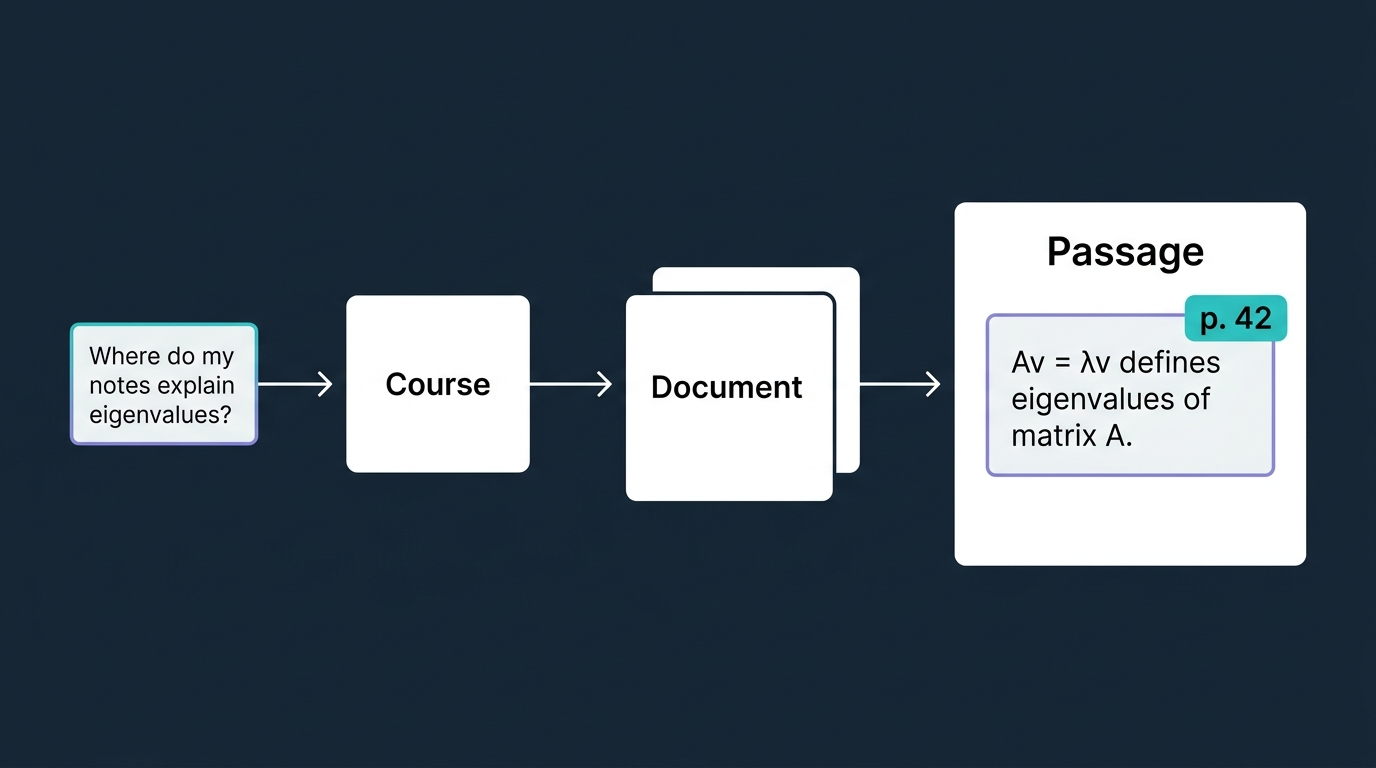
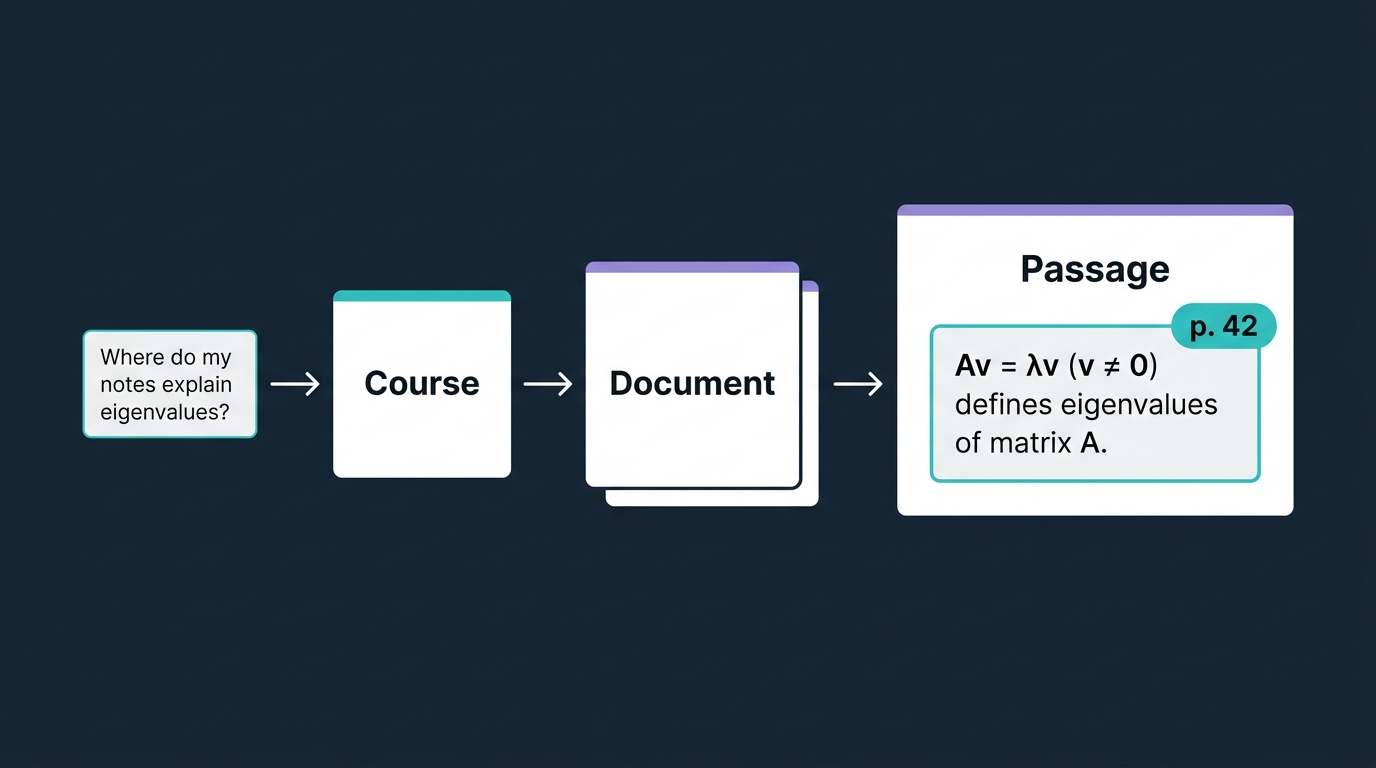
feat(academic-hub): integrate approved Batch 3 featured images and pilot correction

Changed region(s): [[0.2188, 0.25, 0.9688, 0.75], [0.0312, 0.4062, 0.1875, 0.5938]]

diff --git a/docs/editorial/gemini-image-generation-report.md b/docs/editorial/gemini-image-generation-report.md
@@ -629,6 +629,41 @@ Targeted corrections requested by the owner for four Batch 3 candidates. All pre
 
 ---
 
+## Batch 3 Production Build and Visual Verification (Desktop & Mobile 390px)
+
+Full production build and responsive visual checks were performed and recorded for all six integrated pages (Source Indexer candidate 02, Project Steering candidate 02, Marker Conversion candidate 01, Notes Post-Processing candidate 02, RAG Analysis candidate 02, and Problem Generation candidate 02).
+
+### 1. Production Build Output
+- **Command:** `hugo --minify`
+- **Hugo Version:** v0.163.3 extended windows/amd64
+- **Build Duration:** 18,675 ms
+- **Statistics:**
+  - Pages: 119
+  - Paginator pages: 4
+  - Non-page files: 38
+  - Processed images: 619 (new responsive WebP variants generated across all viewports)
+  - Errors: 0
+  - Warnings: 0
+
+### 2. Article View Verification (Desktop & Mobile 390px)
+
+| Page | Responsive Srcset Generated | Sizes Attribute | Rendered Caption | Rendered Article Alt Text | 390px Mobile & Desktop Legibility | Intended Claim Communicated |
+|---|---|---|---|---|---|---|
+| **Source Indexer** | 320w, 480w, 640w, 720w (WebP) | `(max-width: 480px) 100vw, (max-width: 640px) 90vw, (max-width: 720px) 80vw, 720px` | `<span class=article-header-caption>Illustration: find the document, then the passage worth reading.</span>` | `alt="An illustrative question narrows from course records to documents and a source-referenced passage."` | Nonzero eigenvector condition $\mathbf{Av} = \lambda \mathbf{v} \; (\mathbf{v} \neq 0)$ and page 42 badge remain crisp and sharp at 390px mobile width. | Search narrowing from course to document to verified referenced passage. |
+| **Project Steering** | 320w, 480w, 640w, 720w (WebP) | `(max-width: 480px) 100vw, (max-width: 640px) 90vw, (max-width: 720px) 80vw, 720px` | `<span class=article-header-caption>Illustration: a shortlist built from decisions I have reviewed.</span>` | `alt="Task suggestions pass through owner review; changed tasks and missing estimates stay out of the ready shortlist."` | Proposed task list, missing estimate hold-back, and 3-item ready shortlist scale down cleanly with balanced spacing. | Owner review gate; unestimated tasks held back; changed tasks return to review. |
+| **Marker Conversion** | 320w, 480w, 640w, 720w (WebP) | `(max-width: 480px) 100vw, (max-width: 640px) 90vw, (max-width: 720px) 80vw, 720px` | `<span class=article-header-caption>Illustration: preserve the structure needed to find and check a passage.</span>` | `alt="A textbook chapter, equation, and figure become searchable text with both PDF and printed-page references."` | Dual PDF and printed page tracking badges and figure description card remain clearly legible at 390px. | Structural conversion preserving book references and geometric figure descriptions. |
+| **Notes Post-Processing** | 320w, 480w, 640w, 720w (WebP) | `(max-width: 480px) 100vw, (max-width: 640px) 90vw, (max-width: 720px) 80vw, 720px` | `<span class=article-header-caption>Illustration: one ordinary-looking letter can change the meaning of an equation.</span>` | `alt="The letter p in extracted text is replaced with a square-root sign after comparison with the source formula."` | Single formula focus $\sqrt{h^2 + k^2}$, amber suspicious symbol badge, and teal verification badge maintain high contrast and clarity. | Detection and source comparison of plausible optical extraction errors without claiming automated proof. |
+| **RAG Analysis** | 320w, 480w, 640w, 720w (WebP) | `(max-width: 480px) 100vw, (max-width: 640px) 90vw, (max-width: 720px) 80vw, 720px` | `<span class=article-header-caption>Illustration: keep an explanation connected to the passages used to write it.</span>` | `alt="Two source passages support an illustrative answer with a section and page reference that can be checked."` | Explicit real symmetric matrix condition, dual textbook/lecture citations, and source trail tag are legible without overlap at 390px. | Dual-source grounding with inspectable reference route back to source pages. |
+| **Problem Generation** | 320w, 480w, 640w, 720w (WebP) | `(max-width: 480px) 100vw, (max-width: 640px) 90vw, (max-width: 720px) 80vw, 720px` | `<span class=article-header-caption>Illustration: the right answer and the right method are separate checks.</span>` | `alt="A practice problem and solution are reviewed for both the requested technique and mathematical correctness before student inspection."` | Complete convergence argument ($\forall n \ge N, |1/n| \le 1/N < \varepsilon$), stacked method/correctness check badges, and human inspection stage remain sharp on mobile. | Separate evaluation of method and reasoning validity culminating in human student inspection. |
+
+### 3. Collection Card / Thumbnail Verification (Desktop & Mobile 390px)
+
+- **Listing Location:** `public/projects/academic-hub/index.html` and `public/projects/index.html`
+- **Responsive Srcset for Cards:** Generated WebP variants at 400w, 600w, 800w with `sizes="(max-width: 768px) 100vw, (max-width: 1200px) 50vw, 33vw"` and `object-contain` within exact 16:9 containers.
+- **Thumbnail Legibility:** High contrast dark navy background (`#14202D`), generous outer padding (>8%), and bold card headers ensure all six project cards display cleanly without cropping or illegible micro-text in 300px–390px grid views.
+
+---
+
 ## Workspace Status and Changes Summary
 
 - **Repository Root:** `C:/Users/theaa/ai-sandbox-master/.worktrees/gemini-website-images`
@@ -640,17 +675,14 @@ Targeted corrections requested by the owner for four Batch 3 candidates. All pre
   - Commit `112fd70`: Archive Batch 3 originals, add candidates for steering, marker, postprocess, and source indexer v2.
   - Commit `220bafc`: Add candidate images for rag_analysis and problem_generation.
   - Commit `52a05fe`: Documentation tracking update in generation report.
-- **Current Round 2 Candidates (Awaiting Owner Review):**
-  - `docs/editorial/image-candidates/project_steering/candidate-02.png` (created)
-  - `docs/editorial/image-candidates/postprocess_notes/candidate-02.png` (created)
-  - `docs/editorial/image-candidates/rag_analysis/candidate-02.png` (created)
-  - `docs/editorial/image-candidates/problem_generation/candidate-02.png` (created)
-  - `docs/editorial/image-candidates/marker_conversion/candidate-01.png` (preserved from Round 1)
-  - `docs/editorial/image-candidates/source_indexer/candidate-02.png` (preserved from Round 1)
+  - Commit `515745e`: Add Round 2 revised candidate images for Batch 3.
+- **Active Integrated Work (Batch 3):**
+  - All 6 approved candidates integrated as `featured.png` in their page bundles.
+  - Replaced baseline `featured.jpg` removed from page bundles (preserved in `docs/editorial/image-candidates/*/original-featured.jpg`).
+  - Frontmatters updated with `Illustration:` captions and descriptive alt text; all fulfilled `[[Insert Image: ...]]` placeholders removed.
+  - Production build verified with `hugo --minify` (0 errors, 619 processed images).
 - **Integrity Verification:**
-  - Zero edits have been made to `content/projects/` page bundles or active featured assets.
-  - All original archived files (`original-featured.jpg`) and Candidate 01 assets remain untouched.
-  - All `[[Insert Image: ...]]` briefs remain in place awaiting owner review.
+  - All candidate files and archived originals remain preserved in `docs/editorial/image-candidates/`.
   - No branches switched, merged, pushed, or deployed.
 
 

diff --git a/content/projects/academic-hub/marker_conversion/index.md b/content/projects/academic-hub/marker_conversion/index.md
@@ -26,7 +26,9 @@ tags:
   - Google Cloud Platform
   - LLM / RAG
 image:
-  caption: "Textbook conversion preserves chapter boundaries and references back to source pages."
+  caption: "Illustration: preserve the structure needed to find and check a passage."
+  alt_text: "A textbook chapter, equation, and figure become searchable text with both PDF and printed-page references."
+  focal_point: Center
 params:
   subproject:
     id: convert_textbook
@@ -55,8 +57,6 @@ Finding a word in a textbook PDF does not necessarily find the argument around a
 <!--more-->
 
 Where a long book is divided matters. A fixed page limit can cut through a table or a proof, so the converter looks for chapter boundaries in the PDF outline or printed contents first. It also distinguishes the PDF's page position from the page number printed in the book. That lets a reference such as "see page 157" remain useful even when a preface has shifted the file's numbering.
-
-[[Insert Image: Show a generic textbook spread becoming a chapter-organized text excerpt and a figure description. Highlight separate "PDF page" and "Printed page" labels, with an illustrative cross-reference that points back to the correct source page. Use newly typeset material and a simple invented diagram, not a private textbook crop. Suggested caption: "Preserve the structure needed to find and check a passage." Suggested alt text: "A textbook chapter, equation, and figure become searchable text with both PDF and printed-page references." Save the approved replacement as featured.jpg or featured.png in this page bundle.]]
 
 The [Source Indexer](/projects/academic-hub/source_indexer/) makes the converted material available as referenced passages. A [study guide](/projects/academic-hub/study_guide_pipeline/) can then select a textbook section for an explanation, while a [concept map](/projects/academic-hub/concept_graph/) can cite evidence for the conditions linking two ideas. Preserving the book's structure gives those later tools something specific to read and cite.
 

diff --git a/content/projects/academic-hub/problem_generation/index.md b/content/projects/academic-hub/problem_generation/index.md
@@ -5,7 +5,9 @@ lastmod: 2026-10-16
 summary: "Generate extra course-style practice questions and worked solutions, checking the requested method separately from the answer."
 type: academic-hub-project
 image:
-  caption: "Course examples guide a new problem, followed by separate method and correctness checks."
+  caption: "Illustration: the right answer and the right method are separate checks."
+  alt_text: "A practice problem and solution are reviewed for both the requested technique and mathematical correctness before student inspection."
+  focal_point: Center
 links:
   - type: site
     icon: brands/github
@@ -38,8 +40,6 @@ Extra practice is most useful when it exercises the method I am trying to learn.
 <!--more-->
 
 That distinction came from actual trials. A model asked for a proof using explicit error bounds, known as an epsilon-delta argument, kept using a different approach from its retrieved examples. Splitting the review into "requested technique" and "correctness" caught those mismatches, although the local model still failed to produce an accepted answer in two full trials. The check exposed a limitation; it did not make the model capable of solving the task.
-
-[[Insert Image: Show an illustrative practice request becoming a new question and worked solution, followed by two clearly separate review labels: "Requested method?" and "Correct reasoning?" Use a simple sequence-convergence example and identify it as illustrative, not measured output. Include human inspection after the model checks. Suggested caption: "The right answer and the right method are separate checks." Suggested alt text: "A practice problem and solution are reviewed for both the requested technique and mathematical correctness before student inspection." Save the approved replacement as featured.jpg or featured.png in this page bundle.]]
 
 An **illustrative request** makes the difference easier to see:
 

diff --git a/content/projects/academic-hub/project_steering/index.md b/content/projects/academic-hub/project_steering/index.md
@@ -17,6 +17,10 @@ links:
 tags:
   - Python
   - Project Planning
+image:
+  caption: "Illustration: a shortlist built from decisions I have reviewed."
+  alt_text: "Task suggestions pass through owner review; changed tasks and missing estimates stay out of the ready shortlist."
+  focal_point: Center
 params:
   subproject:
     id: project_steering
@@ -37,8 +41,6 @@ Project Steering helps me choose the next task from a long project list. I revie
 <!--more-->
 
 Each task keeps its identity when it moves within the list, but suggestions are tied to its wording. If the description changes after an AI agent proposes an estimate or assignment, that proposal becomes stale and needs a fresh review. That keeps an old suggestion from being approved for changed work.
-
-[[Insert Image: Create a landscape illustration showing a long task list becoming a three-item shortlist after owner review. Use three large labels: "Proposed", "Review", "Ready". Show one changed task returning for review and one task waiting for an effort estimate. Use invented task names, without copying the private planning ledger or fabricating a product screenshot. The main idea is that suggestions stay separate from approved priorities. Suggested caption: "A shortlist built from decisions I have reviewed." Suggested alt text: "Task suggestions pass through owner review; changed tasks and missing estimates stay out of the ready shortlist." Save the approved image as featured.jpg or featured.png in this page bundle.]]
 
 The review page also lets me hold a task until a chosen date without changing its priority score. Reviewing [Corpus Health's daily-scan trial](/projects/academic-hub/corpus_health/), for example, can remain important while staying out of today's shortlist until the trial finishes. Suggested assignments to coding agents have their own approval step, separate from priority estimates.
 

diff --git a/content/projects/academic-hub/postprocess_notes/index.md b/content/projects/academic-hub/postprocess_notes/index.md
@@ -14,7 +14,9 @@ links:
     label: 'Status: Notes Postprocessing'
     url: https://github.com/AaronScherf/ai-sandbox-master/blob/main/ai-sandbox/academic-rag-model/docs/status/postprocess_notes/2026-08-27-notes-postprocessing-status.md
 image:
-  caption: "Suspicious extracted text is compared with its source page before correction."
+  caption: "Illustration: one ordinary-looking letter can change the meaning of an equation."
+  alt_text: "The letter p in extracted text is replaced with a square-root sign after comparison with the source formula."
+  focal_point: Center
 tags:
   - Python
   - Hugging Face
@@ -40,8 +42,6 @@ A square-root sign once became the letter p in my extracted notes. The text stil
 <!--more-->
 
 Context on both sides of a symbol mattered. Looking only at the text before the corrupted character missed evidence that appeared afterward; a second local model could use that surrounding context to judge which positions deserved attention. The models flag candidates rather than deciding what the source must have said.
-
-[[Insert Image: Create a close comparison of an illustrative source formula, the mistaken extraction "p(h² + k²)", and the corrected "√(h² + k²)". Highlight only the first symbol. Show a source-page comparison between detection and correction, using a newly typeset example rather than an unapproved private page crop. Suggested caption: "One ordinary-looking letter can change the meaning of an equation." Suggested alt text: "The letter p in extracted text is replaced with a square-root sign after comparison with the source formula." Save the approved replacement as featured.jpg or featured.png in this page bundle.]]
 
 The recorded motivating run repaired that square-root error on page 6 and left nine other flagged candidates unchanged. The notation below illustrates the difference:
 

diff --git a/content/projects/academic-hub/rag_analysis/index.md b/content/projects/academic-hub/rag_analysis/index.md
@@ -21,7 +21,9 @@ tags:
   - Python
   - LLM / RAG
 image:
-  caption: "A question leads to relevant passages, an explanation, and references to inspect."
+  caption: "Illustration: keep an explanation connected to the passages used to write it."
+  alt_text: "Two source passages support an illustrative answer with a section and page reference that can be checked."
+  focal_point: Center
 params:
   subproject:
     id: rag
@@ -46,8 +48,6 @@ RAG Analysis answers a question using passages found in my textbooks and course 
 <!--more-->
 
 One useful choice is limiting how many passages a single file can contribute. Otherwise, a relevant textbook can fill the available space and crowd out lecture notes or another author's explanation. Follow-up questions are also rewritten using the recent conversation, so "explain that differently" becomes a specific question the search tools can use.
-
-[[Insert Image: Show a question connected to two source passages and a short answer with a readable section/page reference. Use invented text and clearly label it illustrative; do not fabricate a screenshot or imply the reference proves the answer. Make the two-source comparison and the route back to a source page visible at thumbnail size. Suggested caption: "Keep an explanation connected to the passages used to write it." Suggested alt text: "Two source passages support an illustrative answer with a section and page reference that can be checked." Save the approved replacement as featured.jpg or featured.png in this page bundle.]]
 
 A **clearly illustrative example**, rather than a quotation from a recorded answer:
 
